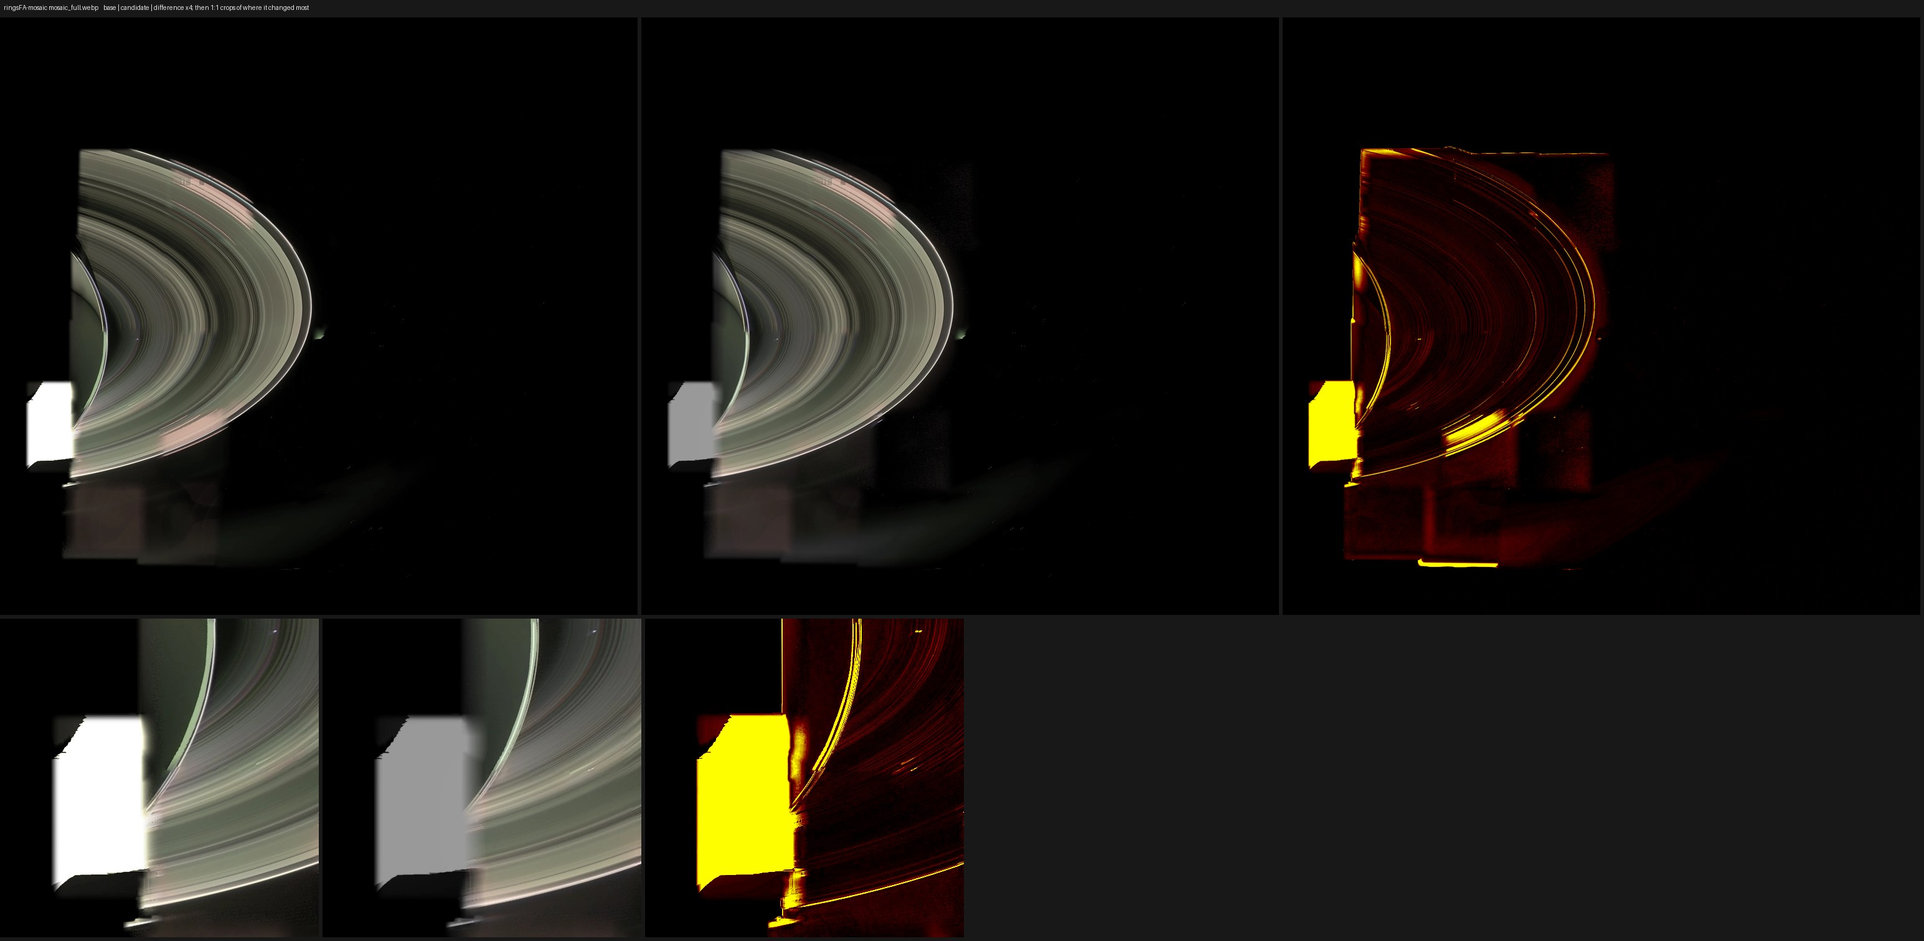
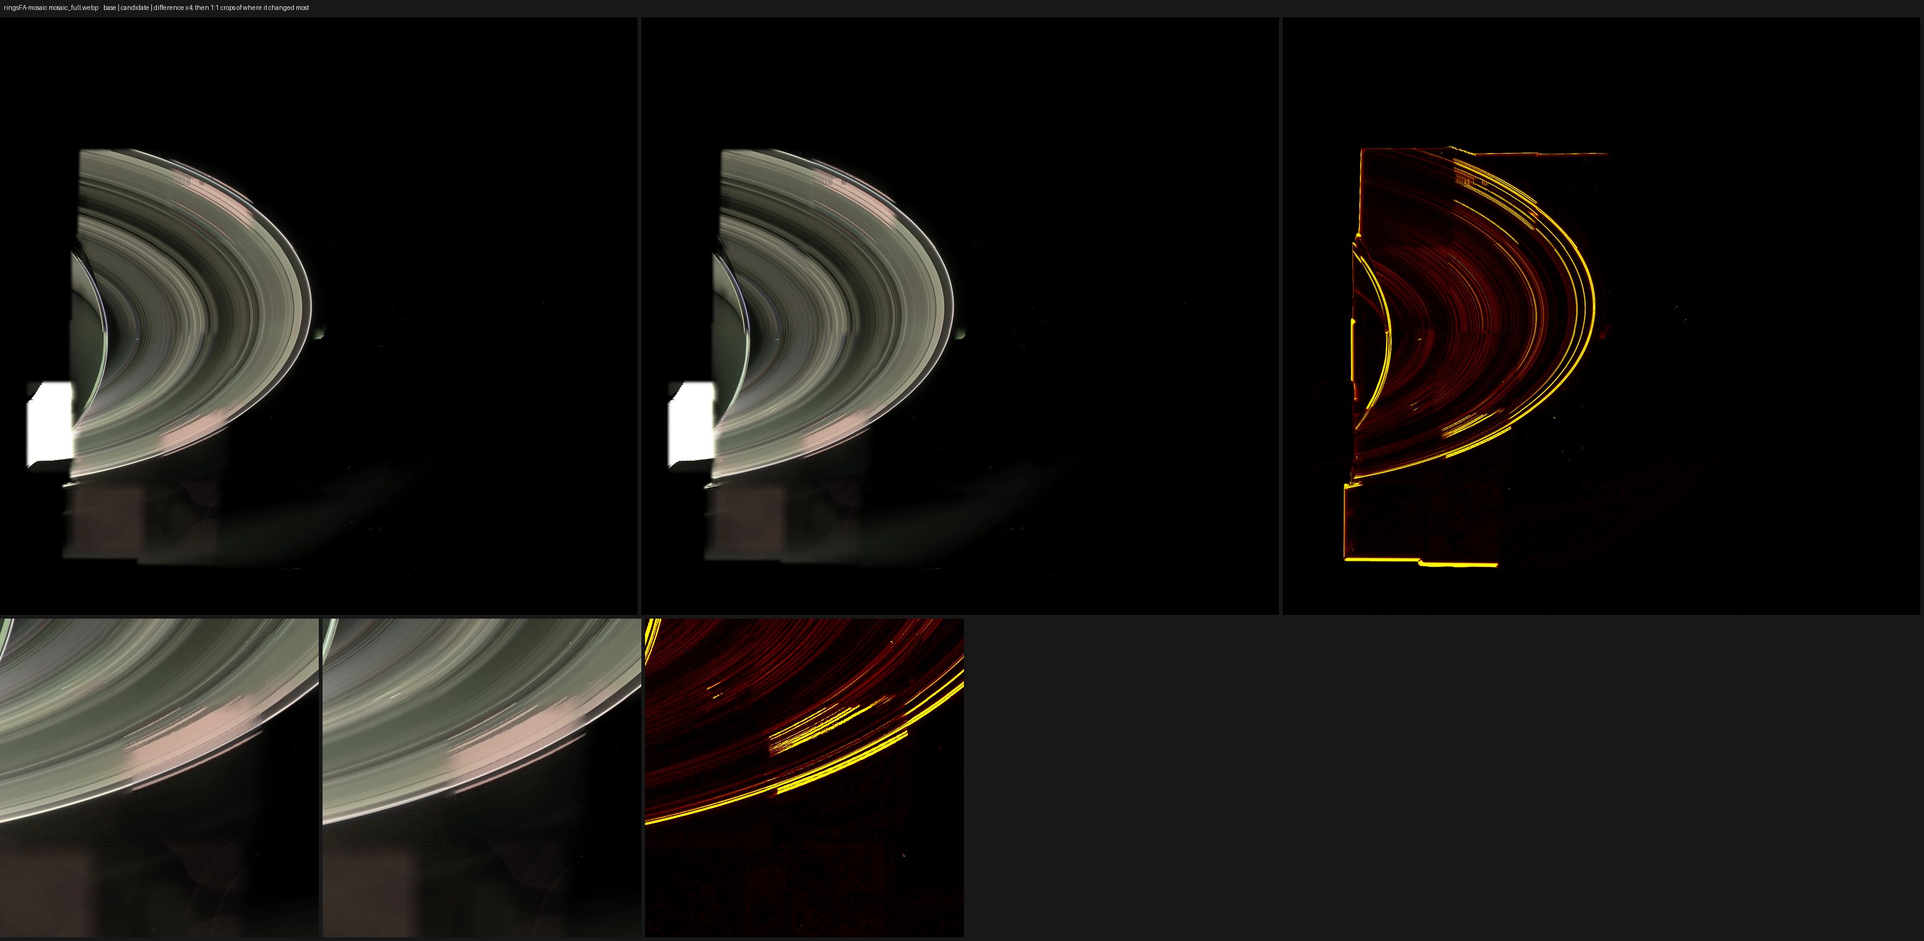
Summed frames enlarged smoothly: evidence for 45b0f4a9 (fifth benchmark run, F ring plans, two close looks)

diff --git a/evidence/summed_enlarged/README.md b/evidence/summed_enlarged/README.md
@@ -1,6 +1,6 @@
 # Summed frames enlarged smoothly (taste call 23, option C)
 
-Evidence for the change on `claude/summed-smooth`, head bfc26929, against main 02598865.
+Evidence for the change on `claude/summed-smooth`, code at 45b0f4a9, against main 02598865.
 
 ## The change
 
@@ -9,11 +9,15 @@ them, so they arrive at 512 or 256 lines. The pipeline works at 1024, and until 
 or 4x4 block. Now a summed frame's calibrated picture is enlarged smoothly (bicubic) from the camera's own pixels,
 after calibration and before the geometric correction (`calibration.enlarged`, called in `calibrate`).
 
+Only what the camera measured is enlarged:
+
 - Nothing is sharpened and no detail is added. A flat frame stays flat to the bit.
-- Pixels lost in downlink are bridged from the kept pixels above and below before the frame is enlarged, so a lost
-  line does not bleed into its neighbors. They are filled afterward as before.
+- Pixels lost in downlink keep the values they had, block for block, so everything measured or filled downstream
+  meets what it met before. So that they do not bleed into their neighbors when the frame is enlarged, they are
+  bridged first from the kept pixels above and below, and a column with nothing kept (a summed frame's first and
+  last column always count as lost) from the pixels beside it.
 - What the camera saturated, and the 2 camera pixels round it, stay as blocks and fade into the smooth picture over
-  one more pixel. The saturation tests and fills downstream see what they saw before.
+  one more pixel.
 - The valid and saturated masks keep their block shape.
 - A full-size frame is not touched, and neither is a summed frame asked for at its own size.
 
@@ -21,6 +25,9 @@ after calibration and before the geometric correction (`calibration.enlarged`, c
 
 Nine summed frames as stills (`color_image.load_aligned`), from the branch's own code with the enlargement off and
 on. Each sheet shows the whole picture, a part at actual size before and after, and its middle at twice the size.
+They were rendered at bfc26929 and again at 0cff22a2, byte for byte the same; the last commit changes only frames
+handed over with a lost-pixel mask, which the stills path does not do (the benchmark's six stills and composites
+are also byte-identical between its last two runs).
 
 | | frame | taken at | mean before to after |
 |---|---|---|---|
@@ -40,74 +47,95 @@ other way. The numbers are in `summed.jsonl`.
 
 ## Image benchmark
 
-All 53 items: **33 identical, 20 changed**, verdict NEEDS EYES (the harness's word for targets that changed).
-Report: [`bench_report.md`](bench_report.md). Sheets: `bench_<item>.jpg` (base, candidate, difference x4, then
-crops at actual size of the place that changed most).
+All 53 items, 45b0f4a9 against main: **33 identical, 20 changed**, verdict NEEDS EYES (the harness's word for
+targets that changed). Report: [`bench_report.md`](bench_report.md). Sheets: `bench_<item>.jpg` (base, candidate,
+difference x4, then crops at actual size of the place that changed most).
 
 I counted the summed frames in every item from the labels. The 20 changed items are the 20 that draw summed
 frames, and no item without one changed. One more pass, `jupiter-atmos-mosaic`, has 23 summed frames among its 171,
 but the benchmark draws only its last lap (12 tiles) and that picture is identical.
 
+Main gives the same picture twice: `ringsFA-mosaic` and `ringsFB-mosaic` built a second time at main's commit,
+seven hours after the first, are byte-identical to it. So every difference below is this change's.
+
 | item | summed frames | moved >8 levels | brightness (mean, 0 to 255) | seam number | my read |
 |---|---|---|---|---|---|
-| [`ringsFB-mosaic`](./bench_ringsFB-mosaic.jpg) | 275 of 290 | 50.24% | 35.8 to 40.4 (+12.9%) | 0.983 to 1.063 | **not only smoothing**: brighter all over, most in the faint outer rings; the pink patch moved from the left ansa to the right; one more tile is placed (162, main 161) |
-| [`ringsFA-mosaic`](./bench_ringsFA-mosaic.jpg) | 157 of 174 | 16.56% | 28.3 to 28.1 (-0.7%) | 1.031 to 0.964 | **not only smoothing**: the white block at the left (a saturated tile, a defect on main) is gray; one more tile is placed (114, main 113) |
-| [`earthsmiled-mosaic`](./bench_earthsmiled-mosaic.jpg) | 176 of 216 | 5.79% | 18.0 to 18.5 (+2.8%) | 1.288 to 1.327 | ring edges on the summed tiles smoother; one tile left of Saturn sits a little differently |
-| [`ringmosaic04-mosaic`](./bench_ringmosaic04-mosaic.jpg) | 19 of 87 | 22.44% | 36.2 to 36.2 (-0.1%) | 1.007 to 0.990 | as meant on the 19 summed tiles; tiles sit up to 3 px differently, which is what the 'now black' measure sees at the outline |
-| `shadow-mosaic` | 50 of 75 | 0.02% | 20.5 to 20.4 (-0.5%) | 0.805 to 0.790 | nothing to see; 16 levels at most |
+| [`ringsFB-mosaic`](./bench_ringsFB-mosaic.jpg) | 275 of 290 | 12.15% | 35.8 to 35.6 (-0.6%) | 0.983 to 0.980 | the same picture as main: brightness and patches as they were; ring edges smoother, and the tiles by Saturn's shadow on the rings sit a little differently |
+| [`ringsFA-mosaic`](./bench_ringsFA-mosaic.jpg) | 157 of 174 | 10.09% | 28.3 to 28.4 (+0.6%) | 1.031 to 1.080 | the same picture as main: brightness, the white block and the patches as they were; ring edges smoother, some tiles sit a little differently |
+| [`earthsmiled-mosaic`](./bench_earthsmiled-mosaic.jpg) | 176 of 216 | 3.70% | 18.0 to 18.5 (+2.7%) | 1.288 to 1.494 | the same picture to the eye; ring tiles right of Saturn sit a little differently. Seam number worse by measure; I see no new seam at actual size |
+| [`ringmosaic04-mosaic`](./bench_ringmosaic04-mosaic.jpg) | 19 of 87 | 41.41% | 36.2 to 36.5 (+0.6%) | 1.007 to 0.998 | the same picture, placed about 7 and 9 px differently on its canvas, which is most of the pixels that move; as meant on the 19 summed tiles |
+| `shadow-mosaic` | 50 of 75 | 0.02% | 20.5 to 20.6 (+0.2%) | 0.805 to 0.792 | nothing to see; 16 levels at most |
 | [`gring-still`](./bench_gring-still.jpg) | 1 of 1 | 4.39% | 13.9 to 15.2 (+9.1%) |  | as meant: stars and cosmic ray hits are points, not blocks; the noise is finer and the faint ring a little brighter |
 | `approach-movie` | 6 of 48 | 0.00% | -0.1% to +0.1% by frame |  | 6 of 48 frames summed; 12 levels at most |
-| [`phoebe-mosaic`](./bench_phoebe-mosaic.jpg) | 25 of 25 | 2.74% | 125.4 to 125.4 (+0.0%) | 1.334 to 1.330 | as meant: the cratered right half was plainly blocky and is smooth now |
-| [`hyperion-mosaic`](./bench_hyperion-mosaic.jpg) | 27 of 36 | 0.34% | 117.6 to 118.6 (+0.9%) | 1.007 to 1.017 | as meant, barely visible |
-| [`rhea-mosaic`](./bench_rhea-mosaic.jpg) | 62 of 83 | 2.51% | 130.4 to 128.9 (-1.2%) | 0.948 to 0.952 | as meant; 1.2% darker all over (the white moved 1%) |
-| `titan-globmap-mosaic` | 51 of 51 | 0.01% | 144.8 to 145.1 (+0.2%) | 0.677 to 0.678 | nothing to see; 11 levels at most |
+| [`phoebe-mosaic`](./bench_phoebe-mosaic.jpg) | 25 of 25 | 2.54% | 125.4 to 125.4 (-0.0%) | 1.334 to 1.325 | as meant: the cratered right half was plainly blocky and is smooth now |
+| [`hyperion-mosaic`](./bench_hyperion-mosaic.jpg) | 27 of 36 | 0.15% | 117.6 to 117.6 (+0.0%) | 1.007 to 1.008 | as meant, barely visible |
+| [`rhea-mosaic`](./bench_rhea-mosaic.jpg) | 62 of 83 | 0.25% | 130.4 to 130.3 (-0.1%) | 0.948 to 0.954 | as meant, barely visible |
+| `titan-globmap-mosaic` | 51 of 51 | 0.00% | 144.8 to 144.9 (+0.0%) | 0.677 to 0.676 | nothing to see; 11 levels at most |
 | [`kiviuq-still`](./bench_kiviuq-still.jpg) | 1 of 1 | 10.27% | 30.2 to 32.9 (+9.2%) |  | the same on a near-empty sky frame |
-| [`iapetus-mosaic`](./bench_iapetus-mosaic.jpg) | 46 of 115 | 15.03% | 104.9 to 104.9 (+0.0%) | 1.192 to 1.193 | as meant: fine texture over the disk, no streak band (the lost-line fix) |
+| [`iapetus-mosaic`](./bench_iapetus-mosaic.jpg) | 46 of 115 | 14.95% | 104.9 to 104.9 (-0.0%) | 1.192 to 1.194 | as meant: fine texture over the disk, and no streak band from lost lines |
 | [`iapetus-composite`](./bench_iapetus-composite.jpg) | 3 of 3 | 3.54% | 184.2 to 184.0 (-0.1%) |  | as meant: edges of the dark patches smoother |
 | `storm-composite` | 1 of 3 | 0.00% | 210.7 to 210.7 (+0.0%) |  | one of three frames summed; 10 levels at most |
 | `hexagon-composite` | 2 of 2 | 0.46% | 214.0 to 213.9 (-0.0%) |  | as meant, barely visible |
-| [`dione-mosaic`](./bench_dione-mosaic.jpg) | 35 of 57 | 1.42% | 99.7 to 99.6 (-0.1%) | 0.808 to 0.813 | as meant: one summed tile at lower left reads smoother |
-| `titan-cloud-mosaic` | 51 of 75 | 0.14% | 131.8 to 131.9 (+0.1%) | 0.931 to 0.913 | nothing to see but two short marks on one tile's edge |
+| [`dione-mosaic`](./bench_dione-mosaic.jpg) | 35 of 57 | 1.20% | 99.7 to 99.7 (+0.0%) | 0.808 to 0.823 | as meant: one summed tile at lower left reads smoother |
+| `titan-cloud-mosaic` | 51 of 75 | 0.14% | 131.8 to 131.8 (+0.0%) | 0.931 to 0.935 | nothing to see but two short marks on one tile's edge |
 | `titan17-composite` | 2 of 2 | 0.00% | 198.9 to 198.9 (+0.0%) |  | nothing to see; one hot pixel differs |
-| [`tossup-enceladus-088en`](./bench_tossup-enceladus-088en.jpg) | 19 of 22 | 31.80% | -7.9% to +4.1% by frame |  | noisy frames of Enceladus in eclipse: the noise is finer; brightness moves a few percent either way by frame |
+| [`tossup-enceladus-088en`](./bench_tossup-enceladus-088en.jpg) | 19 of 22 | 72.19% | -20.0% to -4.1% by frame |  | noisy frames of Enceladus in eclipse: 4 to 12% darker (one frame 20%), because fewer noise specks stand above black on the night side; the disk is as bright as before |
 
 ### How to read it
 
-**Moons, Saturn and Titan (13 items): as meant.** They come out smoother where a tile was summed, with brightness
-within about 1% (Rhea is 1.2% darker, evenly over the disk). Phoebe shows it best: 25 of its 25 frames
-are summed and the cratered half was plainly blocky. On Iapetus the streak band an earlier version of this branch
-drew (lost lines bleeding) is gone.
+**Moons, Saturn and Titan (13 items): as meant.** They come out smoother where a tile was summed, and brightness
+holds within 0.2%. Phoebe shows it best: all 25 of its frames are summed and the cratered half was plainly blocky.
 
-**Dim, noisy pictures (3 items): finer noise and a little brighter.** On the G ring still, the Kiviuq still and
-Enceladus in eclipse, stars and cosmic ray hits become points instead of blocks and the grain is finer. The
-harness's "detail" number falls from 1.5 to about 1.0 on the two stills, which is the block edges going away. These
-pictures also come out brighter: 1.3 levels on the G ring still and 2.8 on Kiviuq, about 9% of a very dark picture.
-My explanation, which I did not measure separately: the levels are taken from the picture as it will be drawn, the
-sky's floor is its noise at the 98th percentile, and smoother noise has a lower 98th percentile, so less is cut off.
+**Dim, noisy pictures (3 items): finer noise.** On the G ring still and the Kiviuq still, stars and cosmic ray hits
+become points instead of blocks and the grain is finer. The harness's "detail" number falls from 1.5 to about 1.0,
+which is the block edges going away. Both come out a little brighter: 1.3 levels on the G ring still and 2.8 on
+Kiviuq, about 9% of a very dark picture. The movie of Enceladus in eclipse goes the other way, 4 to 12% darker
+(one frame 20%), because fewer noise specks stand above black on the night side; the disk itself is as bright as
+before. My explanation for both, not measured separately: a picture's black is set just above its sky's noise, and
+smoother noise is lower.
 
-**Ring mosaics (4 items).** `ringmosaic04` and Earth Smiled read as meant on their summed tiles. Tiles are
-registered on their pixels, so with smoother pixels some sit up to 3 px differently; that is what the "light now
-black" and seam numbers see.
+**Ring mosaics (4 items): the same pictures, with tiles sitting a little differently.** A mosaic's tiles are
+registered on their pixels, so with smoother pixels some register differently. Brightness is within 0.6% on three
+of them and 2.7% (half a level) on Earth Smiled.
 
-**The two F ring mosaics are not only smoothing, and I do not call them better.** 275 of 290 frames in `ringsFB`
-and 157 of 174 in `ringsFA` are summed, so nearly every tile changes, and each mosaic places one more tile than on
-main (162 against 161, 114 against 113). Both pictures have known defect patches on main, and the patches change:
+- `ringsFB` and `ringsFA` (275 of 290 and 157 of 174 frames summed): the defect patches these two have on main,
+  the pink patch and the white block, are where they were. Measured on plans kept from both builds: the pass's
+  black is within 2.7% of main's on every filter, the white within 1.5%, the angle and footprint the same. Of the
+  tiles registered in both builds (92 and 47), the registration moved by a median 0.27 and 0.40 px, more than 1 px
+  on 21 and 17 tiles, and 11 and 20 tiles switch between registered and left where SPICE puts them. The rings'
+  joint solve fits better: the share of misfit measures falls from 9.2% to 5.3% and from 11.2% to 1.2%. Seam
+  number 0.983 to 0.980 and 1.031 to 1.080. Numbers: [`f_ring_plans.txt`](f_ring_plans.txt).
+- `ringmosaic04`: the whole picture sits about 7 and 9 px differently on its canvas, which is most of the pixels
+  that move (at full size, 20% over 8 levels as built and 8% once that shift is undone).
+- Earth Smiled: the seam number is worse by measure (1.288 to 1.494). At actual size I see no new seam; the ring
+  tiles right of Saturn sit a little differently.
 
-- `ringsFB`: brighter all over (35.8 to 40.4, lit share 61% to 69%), by 3 to 7% in the main rings and by 30 to 80%
-  in the faint outer rings, where a few levels are a large share. The pink patch moves from the left ansa to the
-  right. Seam number 0.983 to 1.063 (worse).
-- `ringsFA`: the white block at the left edge, a saturated tile, is gray (clipped pixels 3.43% to 0.01%). Seam
-  number 1.031 to 0.964 (better).
+## What review and the F ring mosaics turned up
 
-A second build of these two items at main's own commit is queued, to confirm that main gives the same picture twice
-and the differences above are this change. Its result will be added here.
+Two defects in earlier versions of this branch, both fixed and both in the test now:
+
+1. **Edge columns (review).** A summed frame's first and last column always count as lost. They were bridged from
+   the frame's median, which then bled into the two camera pixels beside each edge: a band down both sides of a
+   tile wherever a ring or limb crosses its edge. Now a column with nothing kept takes the pixels beside it
+   (0cff22a2).
+2. **Lost pixels left bridged (found on the F ring mosaics).** With that fixed, `ringsFB` still drew 14% brighter
+   than main. A pass's black sits above its sky's fine structure, and that measure counts the lost pixels. With the
+   bridge left in their place it fell by a quarter to a half on the 4x4 filters (all 128 IR3 and VIO frames of
+   `ringsFB`, measured as `pass_scale` does: VIO 3.42e-4 to 1.52e-4, IR3 2.78e-4 to 2.07e-4). Now the lost pixels
+   get their own values back after the enlargement, and the same measure is 3.43e-4 and 2.75e-4 (45b0f4a9).
 
 ## Tests and versions
 
 - `web/test_summed_enlarged.py`: bicubic from the camera's pixels at 512 and 256 lines, no stair steps, block means
-  kept, small overshoot, a flat frame unchanged to the bit, lost pixels bridged, saturated pixels and their
-  neighbors kept as blocks, full-size and own-size frames left alone.
-- 19 related tests pass on bfc26929, among them `test_lost_lines`, `test_hot_lost`, `test_black_lost_pixels`,
+  kept, small overshoot, a flat frame unchanged to the bit, lost pixels bridged without bleeding and left with
+  their own values, edge columns taking the pixels beside them, saturated pixels and their neighbors kept as
+  blocks, full-size and own-size frames left alone.
+- 19 related tests pass on 45b0f4a9, among them `test_lost_lines`, `test_hot_lost`, `test_black_lost_pixels`,
   `test_summed_white`, `test_full_depth` and the three `test_saturated_*`.
 - Bumped: obs, reel, native, export, levels, color, proc, thumb and the centring version, since every picture made
   from a summed frame changes.
+
+Two more looks: [`earthsmiled_right_ansa.jpg`](earthsmiled_right_ansa.jpg) (Earth Smiled's right ansa at actual
+size, main left and this branch right; the lower pair is the same with the dark end lifted) and
+[`enceladus_eclipse_frames.jpg`](enceladus_eclipse_frames.jpg) (three frames of the eclipse movie at half size: main,
+this branch, difference x4).

diff --git a/evidence/summed_enlarged/bench_report.md b/evidence/summed_enlarged/bench_report.md
@@ -1,18 +1,18 @@
-# Image benchmark: bfc2692925b7 against 025988656f14
+# Image benchmark: 45b0f4a94168 against 025988656f14
 
 **NEEDS EYES**. 53 items: 33 identical, 20 changed (0 outside the target), 0 not built.
 
-- target items with a measure worse (look at them): ringsFA-mosaic, ringmosaic04-mosaic, gring-still, rhea-mosaic, tossup-enceladus-088en
+- target items with a measure worse (look at them): earthsmiled-mosaic, ringmosaic04-mosaic, gring-still, tossup-enceladus-088en
 
-Built in 35 min (base) and 37 min (candidate). Targets: approach-movie, dione-mosaic, earthsmiled-mosaic, gring-still, hexagon-composite, hyperion-mosaic, iapetus-composite, iapetus-mosaic, kiviuq-still, phoebe-mosaic, rhea-mosaic, ringmosaic04-mosaic, ringsFA-mosaic, ringsFB-mosaic, shadow-mosaic, storm-composite, titan-cloud-mosaic, titan-globmap-mosaic, titan17-composite, tossup-enceladus-088en.
+Built in 35 min (base) and 28 min (candidate). Targets: approach-movie, dione-mosaic, earthsmiled-mosaic, gring-still, hexagon-composite, hyperion-mosaic, iapetus-composite, iapetus-mosaic, kiviuq-still, phoebe-mosaic, rhea-mosaic, ringmosaic04-mosaic, ringsFA-mosaic, ringsFB-mosaic, shadow-mosaic, storm-composite, titan-cloud-mosaic, titan-globmap-mosaic, titan17-composite, tossup-enceladus-088en.
 
 | item | group | status | pictures changed | moved >8 levels (worst) | largest change (levels) | worse by measure | note |
 |---|---|---|---|---|---|---|---|
-| ringsFB-mosaic | target | changed | 2/2 | 50.24% | 255 |  |  |
-| ringsFA-mosaic | target | changed | 2/2 | 16.56% | 197 | mosaic.webp: lit area's centre moved 16 px |  |
-| earthsmiled-mosaic | target | changed | 2/2 | 5.79% | 210 |  |  |
-| ringmosaic04-mosaic | target | changed | 2/2 | 22.44% | 211 | mosaic.webp: 1.01% of the base's light now black |  |
-| shadow-mosaic | target | changed | 2/2 | 0.02% | 16 |  |  |
+| ringsFB-mosaic | target | changed | 2/2 | 12.15% | 247 |  |  |
+| ringsFA-mosaic | target | changed | 2/2 | 10.09% | 238 |  |  |
+| earthsmiled-mosaic | target | changed | 2/2 | 3.70% | 195 | mosaic_full.webp: seam/texture 1.288 -> 1.494 |  |
+| ringmosaic04-mosaic | target | changed | 2/2 | 41.41% | 255 | mosaic.webp: 4.16% of the base's light now black |  |
+| shadow-mosaic | target | changed | 2/2 | 0.02% | 17 |  |  |
 | photlit039-mosaic | hard | identical | 0/2 | 0.00% |  |  |  |
 | jupiter-atmos-mosaic | hard | identical | 0/1 | 0.00% |  |  |  |
 | enceladus-spol-mosaic | hard | identical | 0/2 | 0.00% |  |  |  |
@@ -21,7 +21,7 @@ Built in 35 min (base) and 37 min (candidate). Targets: approach-movie, dione-mo
 | ringclose124-movie | hard | identical | 0/10 | 0.00% |  |  |  |
 | gring-still | target | changed | 1/1 | 4.39% | 141 | still.webp: 0.24% of the base's light now black; still.webp: lit area's centre moved 10 px |  |
 | plume-bloom-still | hard | identical | 0/1 | 0.00% |  |  |  |
-| approach-movie | target | changed | 96/96 | 0.00% | 12 |  |  |
+| approach-movie | target | changed | 96/96 | 0.00% | 11 |  |  |
 | ringmovie04-movie | hard | identical | 0/44 | 0.00% |  |  |  |
 | telesto-composite | hard | identical | 0/1 | 0.00% |  |  |  |
 | moon99-composite | plain | identical | 0/1 | 0.00% |  |  |  |
@@ -30,19 +30,19 @@ Built in 35 min (base) and 37 min (candidate). Targets: approach-movie, dione-mo
 | jupiter-portrait-composite | plain | identical | 0/1 | 0.00% |  |  |  |
 | jupiter-rmov-movie | plain | identical | 0/142 | 0.00% |  |  |  |
 | approach-composite | plain | identical | 0/1 | 0.00% |  |  |  |
-| phoebe-mosaic | target | changed | 2/2 | 2.74% | 186 |  |  |
+| phoebe-mosaic | target | changed | 2/2 | 2.54% | 102 |  |  |
 | phoebe-movie | plain | identical | 0/40 | 0.00% |  |  |  |
 | titan04-composite | plain | identical | 0/1 | 0.00% |  |  |  |
 | saturn05-movie | plain | identical | 0/27 | 0.00% |  |  |  |
 | rhea-glocol-composite | plain | identical | 0/1 | 0.00% |  |  |  |
-| hyperion-mosaic | target | changed | 2/2 | 0.34% | 50 |  |  |
-| rhea-mosaic | target | changed | 2/2 | 2.51% | 72 | mosaic.webp: 0.73% of the base's light now black |  |
-| titan-globmap-mosaic | target | changed | 2/2 | 0.01% | 11 |  |  |
+| hyperion-mosaic | target | changed | 2/2 | 0.15% | 48 |  |  |
+| rhea-mosaic | target | changed | 2/2 | 0.25% | 76 |  |  |
+| titan-globmap-mosaic | target | changed | 2/2 | 0.00% | 11 |  |  |
 | equinox-shadow-still | plain | identical | 0/1 | 0.00% |  |  |  |
 | kiviuq-still | target | changed | 1/1 | 10.27% | 217 |  |  |
 | prometheus-still | plain | identical | 0/1 | 0.00% |  |  |  |
 | pan07-still | plain | identical | 0/1 | 0.00% |  |  |  |
-| iapetus-mosaic | target | changed | 2/2 | 15.03% | 108 |  |  |
+| iapetus-mosaic | target | changed | 2/2 | 14.95% | 108 |  |  |
 | iapetus-composite | target | changed | 1/1 | 3.54% | 37 |  |  |
 | enceladus-composite | plain | identical | 0/1 | 0.00% |  |  |  |
 | mimas-mosaic | plain | identical | 0/2 | 0.00% |  |  |  |
@@ -50,7 +50,7 @@ Built in 35 min (base) and 37 min (candidate). Targets: approach-movie, dione-mo
 | helene-movie | plain | identical | 0/64 | 0.00% |  |  |  |
 | methone-movie | plain | identical | 0/30 | 0.00% |  |  |  |
 | hexagon-composite | target | changed | 1/1 | 0.46% | 40 |  |  |
-| dione-mosaic | target | changed | 2/2 | 1.42% | 108 |  |  |
+| dione-mosaic | target | changed | 2/2 | 1.20% | 93 |  |  |
 | enceladus15-movie | plain | identical | 0/74 | 0.00% |  |  |  |
 | telesto-movie | plain | identical | 0/36 | 0.00% |  |  |  |
 | daphnis17-movie | plain | identical | 0/64 | 0.00% |  |  |  |
@@ -60,6 +60,6 @@ Built in 35 min (base) and 37 min (candidate). Targets: approach-movie, dione-mo
 | enceladus15-composite | plain | identical | 0/1 | 0.00% |  |  |  |
 | titan17-composite | target | changed | 1/1 | 0.00% | 234 |  |  |
 | tossup-ring-108ri | hard | identical | 0/62 | 0.00% |  |  |  |
-| tossup-enceladus-088en | target | changed | 24/24 | 31.80% | 253 | frame000.webp: 2.09% of the base's light now black; frame000.webp: lit area's centre moved 13 px; frame000.webp: lit share 69.3% -> 64.4%; frame004.webp: clipped 0.15% -> 0.37% |  |
+| tossup-enceladus-088en | target | changed | 24/24 | 72.19% | 249 | frame000.webp: 5.81% of the base's light now black; frame000.webp: lit area's centre moved 24 px; frame000.webp: lit share 69.3% -> 60.9% |  |
 
 Sheets: `bench_<item>.jpg` in this folder, for the 13 items with something to see (base | candidate | difference x4, with 1:1 crops of the place that changed most).
